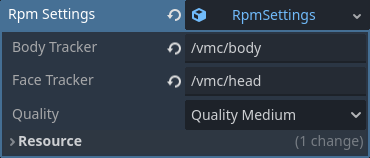
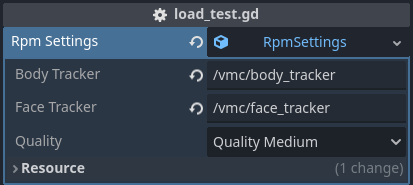
Changes to work with SkeletonModifier3D and the XRTacker changes. (#3)

diff --git a/addons/godot_vmc_tracker/VERSIONS.md b/addons/godot_vmc_tracker/VERSIONS.md
@@ -1,3 +1,6 @@
+# 1.2.0
+- Updated for changes to XR Tracker names and hierarchy
+
 # 1.1.0
 - Set tracker "Root" under hips
 - Move avatars under body modifier

diff --git a/VERSIONS.md b/VERSIONS.md
@@ -1,2 +1,5 @@
+# 1.1.0
+- Updated for changes to XR Tracker names and hierarchy
+
 # 1.0.0
 - Initial Revision
